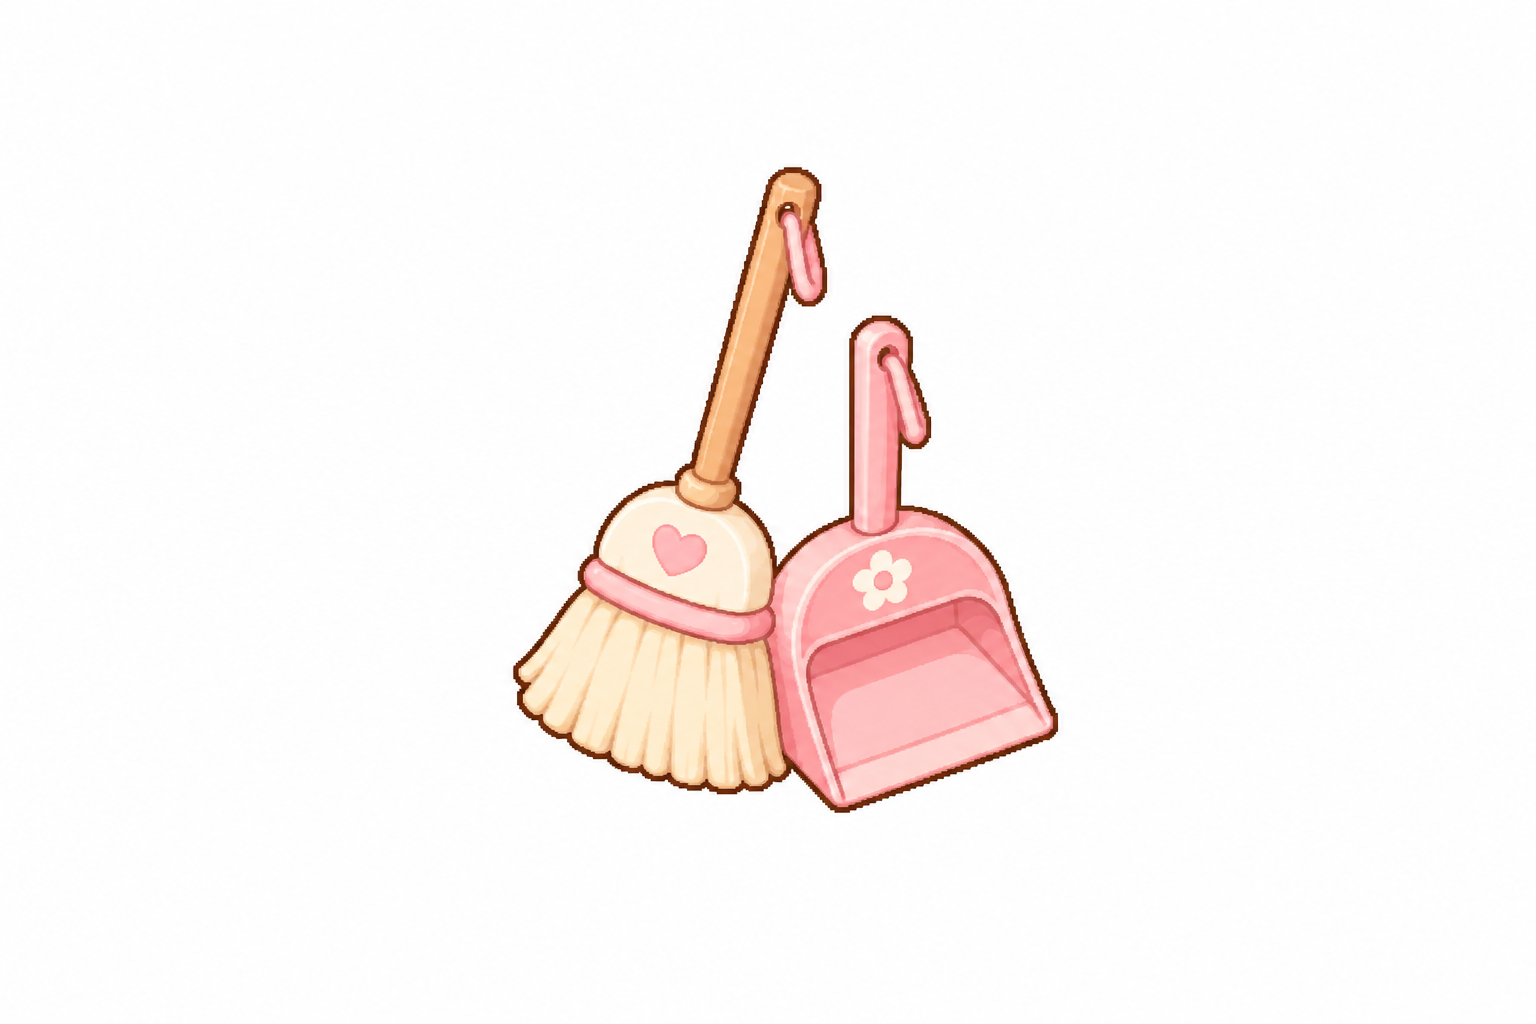
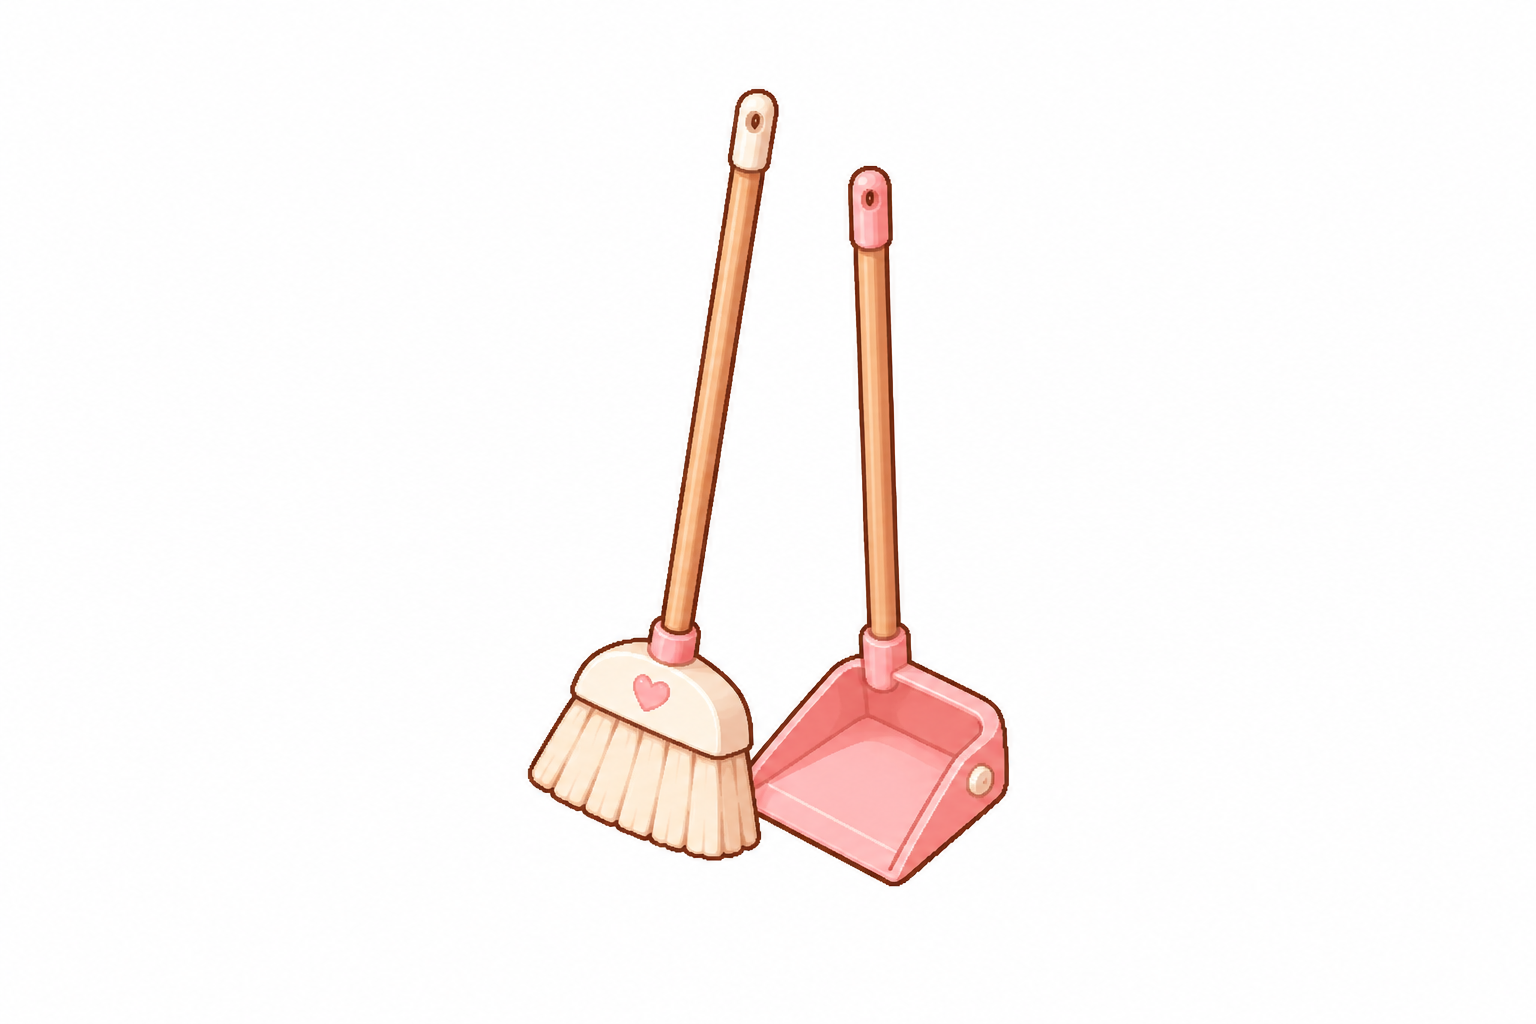
Room items: popcorn without tickets, a long-handled broom
The popcorn is redrawn as just the bucket. The broom and dustpan get long
handles at a real size by the door; their thin handles keep solid with a
lower alpha cut-off (KEEP) so they no longer break into dashes. Old art is
kept as movie_tickets.png and clean_short.png.

Claude-Session: https://claude.ai/code/session_01MT4YkmG2KGTMjF5XqnwBbs

Changed region(s): [[0.3125, 0.0938, 0.6875, 0.875]]

diff --git a/public/joys-config.js b/public/joys-config.js
@@ -30,11 +30,11 @@ export const IMPRINTS = {
   icecream: { name: '冰淇淋公仔', where: '牆角的層架上', x: 805, y: 150, w: 38, h: 65, z: 1 },
   music: { name: '旋轉木馬音樂盒', where: '牆角的層架上', x: 712, y: 163, w: 44, h: 60, z: 1 },
   sun: { name: '向日葵花瓶', where: '電視櫃上', x: 1212, y: 576, w: 70, h: 87, z: 1 },
-  movie: { name: '爆米花和電影票', where: '電視櫃上', x: 1212, y: 578, w: 72, h: 62, z: 1 },
+  movie: { name: '一桶爆米花', where: '電視櫃上', x: 1206, y: 572, w: 62, h: 68, z: 1 },
   sing: { name: '小麥克風', where: '電視櫃上', x: 1210, y: 576, w: 58, h: 69, z: 1 },
   umbrella: { name: '小傘架', where: '門旁邊', x: 1276, y: 676, w: 62, h: 148, r: .03, z: 4 },
   shop: { name: '購物紙袋', where: '門旁邊', x: 1268, y: 688, w: 88, h: 105, r: .035, z: 4 },
-  clean: { name: '小掃把和畚箕', where: '門旁邊', x: 1268, y: 684, w: 100, h: 118, r: .035, z: 4 },
+  clean: { name: '小掃把和畚箕', where: '門旁邊', x: 1270, y: 686, w: 92, h: 152, r: .035, z: 4 },
   letter: { name: '門縫塞進來的信', where: '門前', x: 1335, y: 714, w: 58, h: 40, z: 2 },
   bath: { name: '浴巾和小黃鴨', where: '門上的掛鉤', x: 1368, y: 560, w: 54, h: 102, z: 2 },
   bike: { name: '腳踏車安全帽', where: '門上的掛鉤', x: 1368, y: 556, w: 66, h: 99, z: 2 },

diff --git a/public/sw.js b/public/sw.js
@@ -1,5 +1,5 @@
 // 版本號：主.次.修（見 CLAUDE.md「版本號」）。改了任何檔案就把最後一位 +1，舊快取才會被清掉
-const VERSION = '0.0.108';
+const VERSION = '0.0.109';
 const CACHE = `lifelog-${VERSION}`;
 const ASSETS = [
   './',

diff --git a/art/tools/imprint_items.py b/art/tools/imprint_items.py
@@ -23,13 +23,15 @@ WIDTH = {'cat': 130, 'coffee': 54, 'meal': 215, 'gift': 105, 'bear': 95, 'hearts
          'paw': 120, 'moon': 44, 'star': 200, 'sneaker': 62,
          'cake': 58, 'call': 84, 'camera': 52, 'home': 215, 'plant': 64, 'sparkle': 300, 'sunset': 96,
          'game': 110, 'workout': 100, 'book': 118,
-         'bike': 66, 'bath': 54, 'letter': 58, 'umbrella': 62, 'shop': 88, 'clean': 100, 'sun': 70, 'movie': 72,
+         'bike': 66, 'bath': 54, 'letter': 58, 'umbrella': 62, 'shop': 88, 'clean': 92, 'sun': 70, 'movie': 62,
          'sing': 58, 'music': 44, 'icecream': 38, 'cook': 215}
 # 掛在牆上的要照牆的斜度斜過去：每往右 1px 往下幾 px（GPT 畫的是正面，右牆約往下 0.49，原圖的線已經斜 0.19）
 # 負的是往右上升：左牆、窗簾桿（約 -0.49）
 SHEAR = {'star': 0.3, 'sparkle': -0.49, 'sunset': -0.49}
 # GPT 畫的角度差一點的，順時針轉幾度跟家具平行（電話要和電視櫃平行）
 ROTATE = {'call': 11}
+# 縮小後很細的部分（掃把柄）半透明，門檻放低才不會斷成虛線
+KEEP = {'clean': 40}
 # 小東西的外框細一點（預設 3px）
 LINE_W = {'star': 2, 'sparkle': 2}
 
@@ -64,10 +66,10 @@ def cut(path):
     return full.crop(full.getbbox())
 
 
-def reline(im, w=3):
+def reline(im, w=3, keep=128):
     """沿外輪廓重畫一圈跟房間一樣的線；細的部分（氣球線）不重畫，不然會整條變黑"""
     a = np.array(im)
-    m = a[..., 3] > 128
+    m = a[..., 3] > keep
     thick = ndimage.binary_opening(m, iterations=w)
     ring = thick & ~ndimage.binary_erosion(thick, iterations=w)
     a[ring, :3] = LINE
@@ -88,7 +90,7 @@ def main():
             im = im.transform((im.width, im.height + dy), Image.AFFINE, (1, 0, 0, -k, 1, min(0, k) * im.width), Image.NEAREST)
             im = im.crop(im.getbbox())
         im = im.resize((w, round(im.height * w / im.width)), Image.LANCZOS)
-        im = reline(im, LINE_W.get(key, 3))
+        im = reline(im, LINE_W.get(key, 3), KEEP.get(key, 128))
         im.save(OUT / f'{key}.webp', lossless=True)
         print(f'{key}: w {im.width}, h {im.height}')
 

diff --git a/CLAUDE.md b/CLAUDE.md
@@ -167,7 +167,7 @@
   - 擺放規劃（使用者定案）：**32 件家具都有圖了**，完整的 21 個位置見 `SLOT_OF`、座標見 `IMPRINTS`。**大小以熊熊為現實比例參考**（使用者定案：瑜珈墊比熊熊高、書和熊熊差不多高）。
     - 書桌左邊 coffee 拿鐵（只有杯子，和蛋糕一樣大）／cake；書桌上的紙條位置不變。角落層架長邊：icecream 冰淇淋公仔（左，取代懶骨頭，舊圖 `icecream_beanbag.png`）、camera 拍立得（右，只有相機；全家福相框使用者決定不用了，舊圖 `home_frame.png`）；角落層架短邊：music 旋轉木馬音樂盒（使用者把唱片機換掉，舊圖 `music_turntable.png`）。窗台 plant、窗簾桿 sparkle 串燈、窗戶旁的牆 sunset 明信片（兩個 `SHEAR` -0.49：負的是往右上升）。
     - 床上 cat／game；書櫃頂 sneaker 地球儀、paw；書櫃旁 gift／workout；小熊旁 book；地毯中間三選一（桌子的地面中心對準地毯中心 (968, 680)，三張一樣大），同一張小矮桌：meal 夜市小吃（雞排、珍奶、章魚燒；舊的碗筷 `meal_bowls.png`）／cook 自己做的早餐／home 一家人的火鍋（舊的 cook 火鍋圖 `cook_hotpot.png`）；地毯左前方 hearts 兩雙室內拖鞋（放在地毯外面，不疊到地毯，鞋尖朝地毯；取代愛心氣球，舊圖 `hearts_balloons.png`、`hearts_slippers_v1.png`）。房間前面的地板空著給小人走路。
-    - 電視櫃最左格目前空著；電視櫃上（電視右邊）call／sun／movie／sing（站在桌面中間；電話用 `imprint_items.py` 的 `ROTATE` 轉 11 度，和櫃子平行）；門邊地板 umbrella／shop（只有一個袋子，舊的兩袋 `shop_two_bags.png`）／clean；門前 letter；門上掛鉤 bath／bike（GPT 直接畫成斜掛在門上的角度，**不要再用 `SHEAR` 自己斜**，使用者定案；舊的正面圖 `bath_front.png`、`bike_front.png`）。
+    - 電視櫃最左格目前空著；電視櫃上（電視右邊）call／sun／movie（只有爆米花，舊的有電影票 `movie_tickets.png`）／sing（站在桌面中間；電話用 `imprint_items.py` 的 `ROTATE` 轉 11 度，和櫃子平行）；門邊地板 umbrella／shop（只有一個袋子，舊的兩袋 `shop_two_bags.png`）／clean（長柄掃把和畚箕，舊的短柄 `clean_short.png`；柄很細，工具的 `KEEP` 把透明度門檻放低，不然會斷成虛線）；門前 letter；門上掛鉤 bath／bike（GPT 直接畫成斜掛在門上的角度，**不要再用 `SHEAR` 自己斜**，使用者定案；舊的正面圖 `bath_front.png`、`bike_front.png`）。
     - 舊模型圖留著備用：`camera_tripod.png`、`cloud_beanbag.png`、`coffee_pot.png`、`hearts_balloons.png`、`shoes.png`、`music_turntable.png`、`shop_two_bags.png`、`home_frame.png`、`cook_hotpot.png`、`meal_bowls.png`、`bath_front.png`、`bike_front.png`。
   - 收藏冊在「累積幸福 → 全部」最下面，32 格（`JOY_ICONS` 全部）。
 - **使用者在小幸福選單（artifact）選了 32 個**：原本 24 個，加上 game 玩了喜歡的遊戲、cook 自己做了一頓飯、shop 買到喜歡的東西、workout 去運動了、movie 看了好看的電影、clean 把房間整理乾淨、call 和好久不見的人聊天、sing 大聲唱了歌。這 8 個已加進 `JOY_ICONS`（emoji）和 `ASK`，但**還沒有像素圖示**：不在 `JOY_PIX`，所以不能選來當小幸福或紙條貼圖（`PICKABLE_ICONS`），收藏冊顯示「即將推出」；圖做好放進 `public/joys/`、加進 `JOY_PIX` 和 `sw.js`，再加進 `SUGGESTIONS`。原本只有圖示的 6 個補了名稱，加進建議：被抱抱了 bear、照顧了植物 plant、完成了一件事 sparkle、雨天也很好 umbrella、吃到冰淇淋 icecream、騎車出去晃晃 bike。
